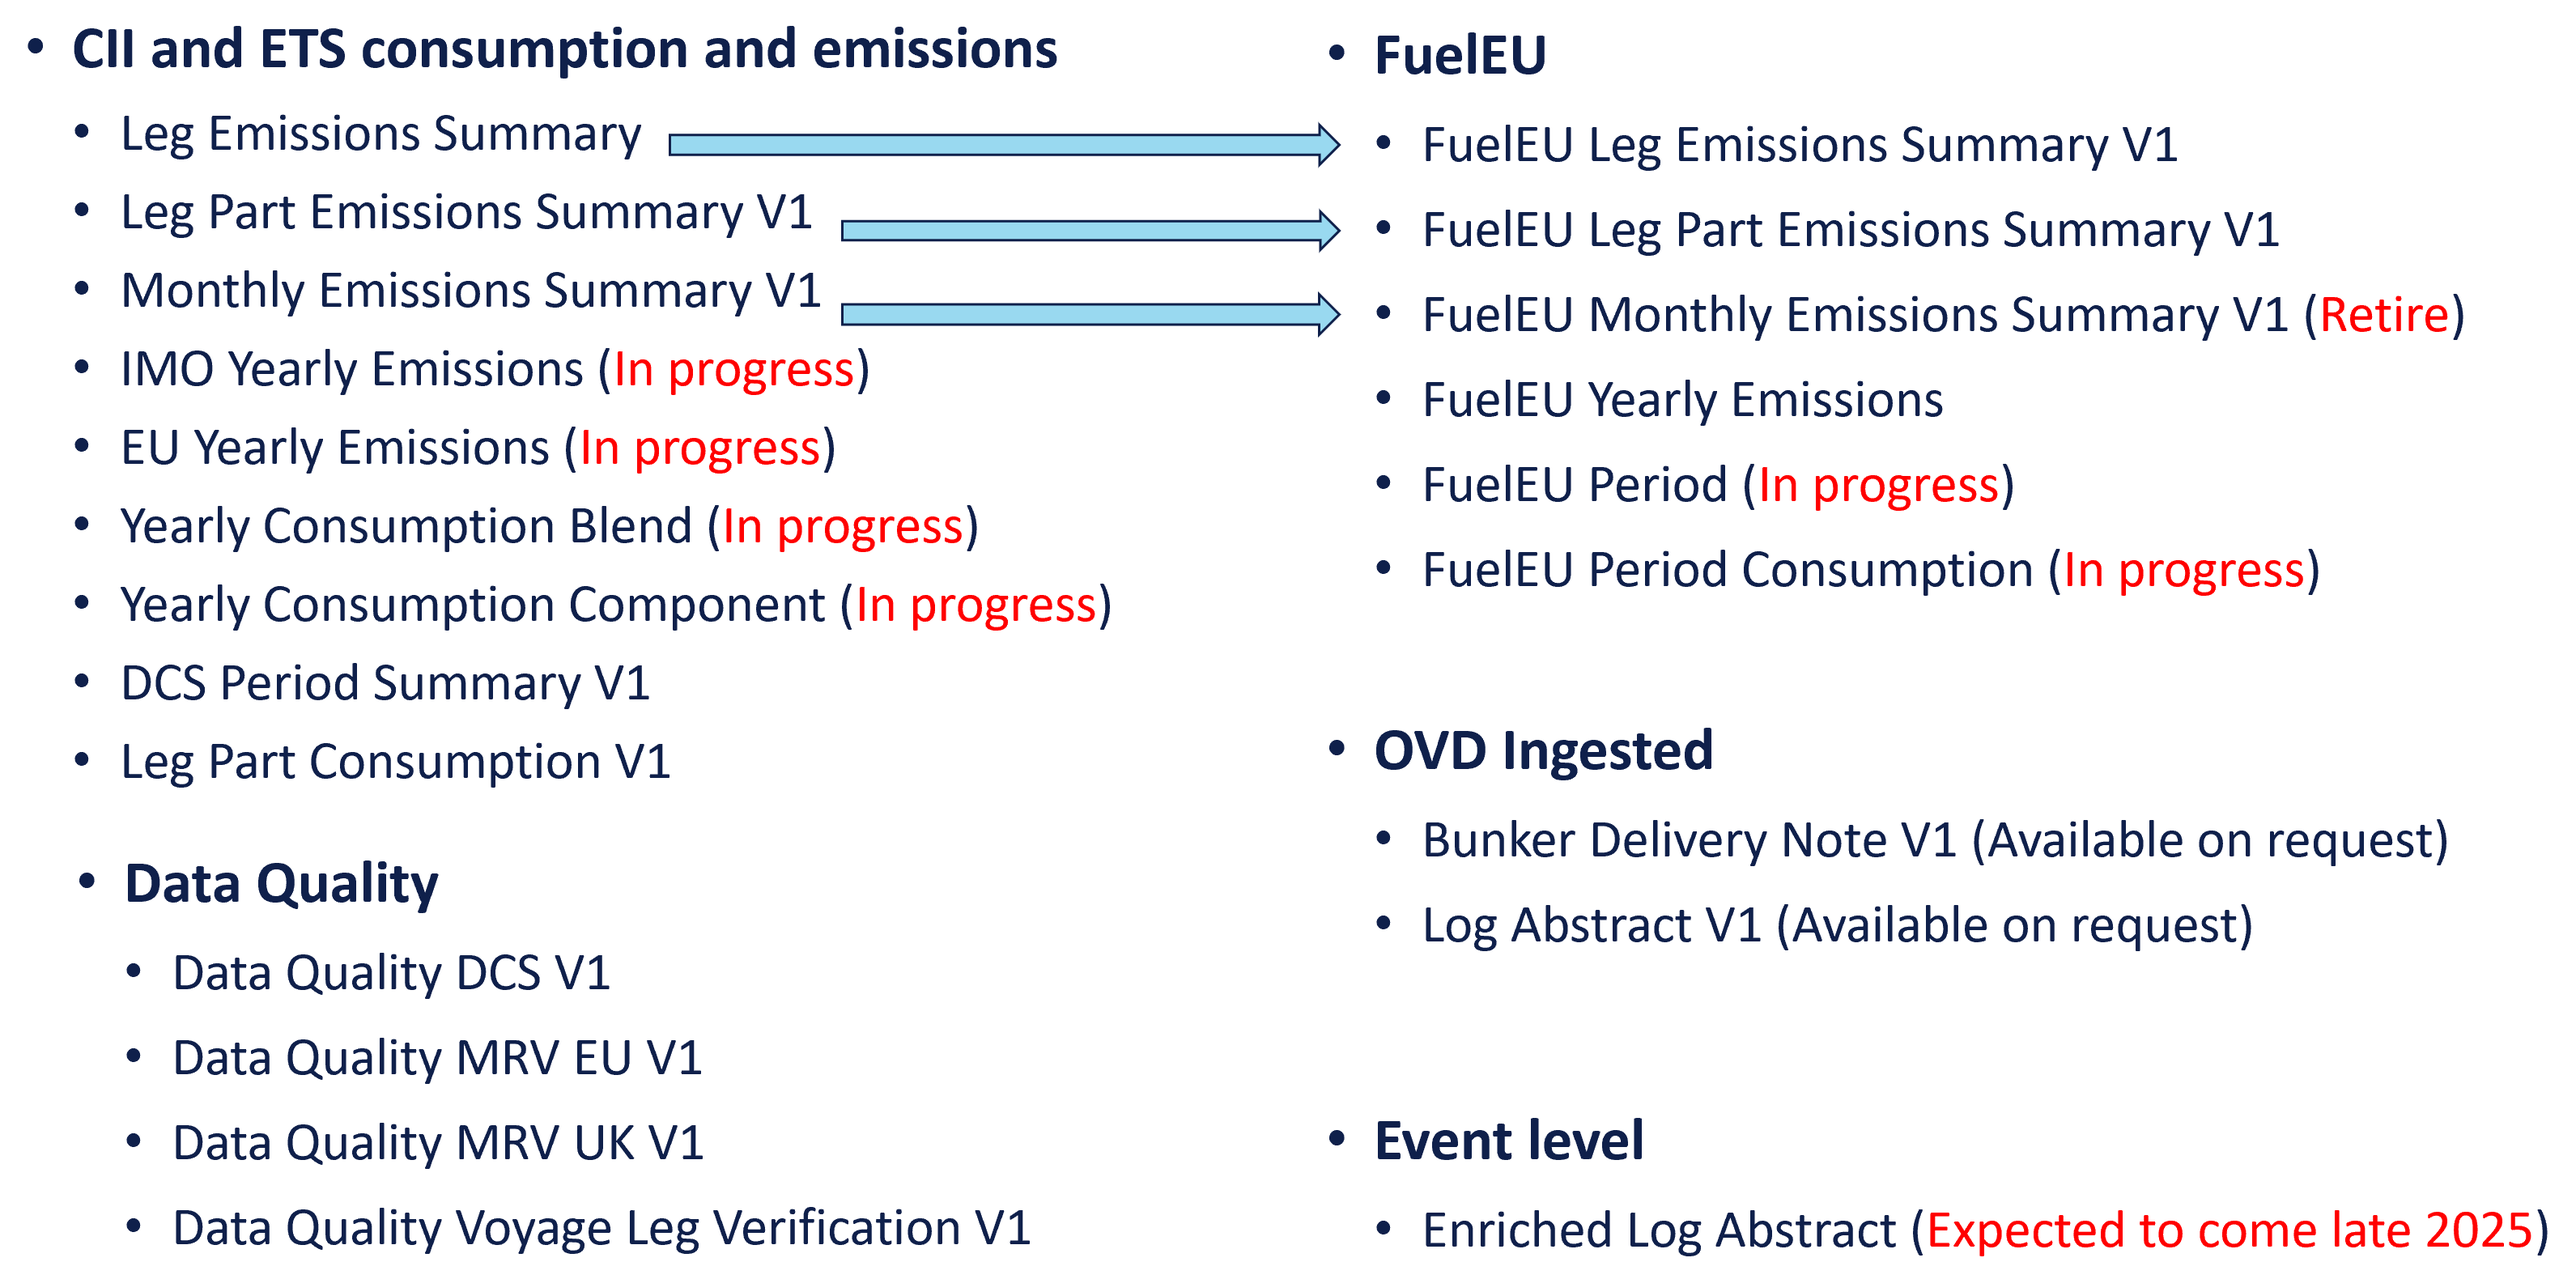
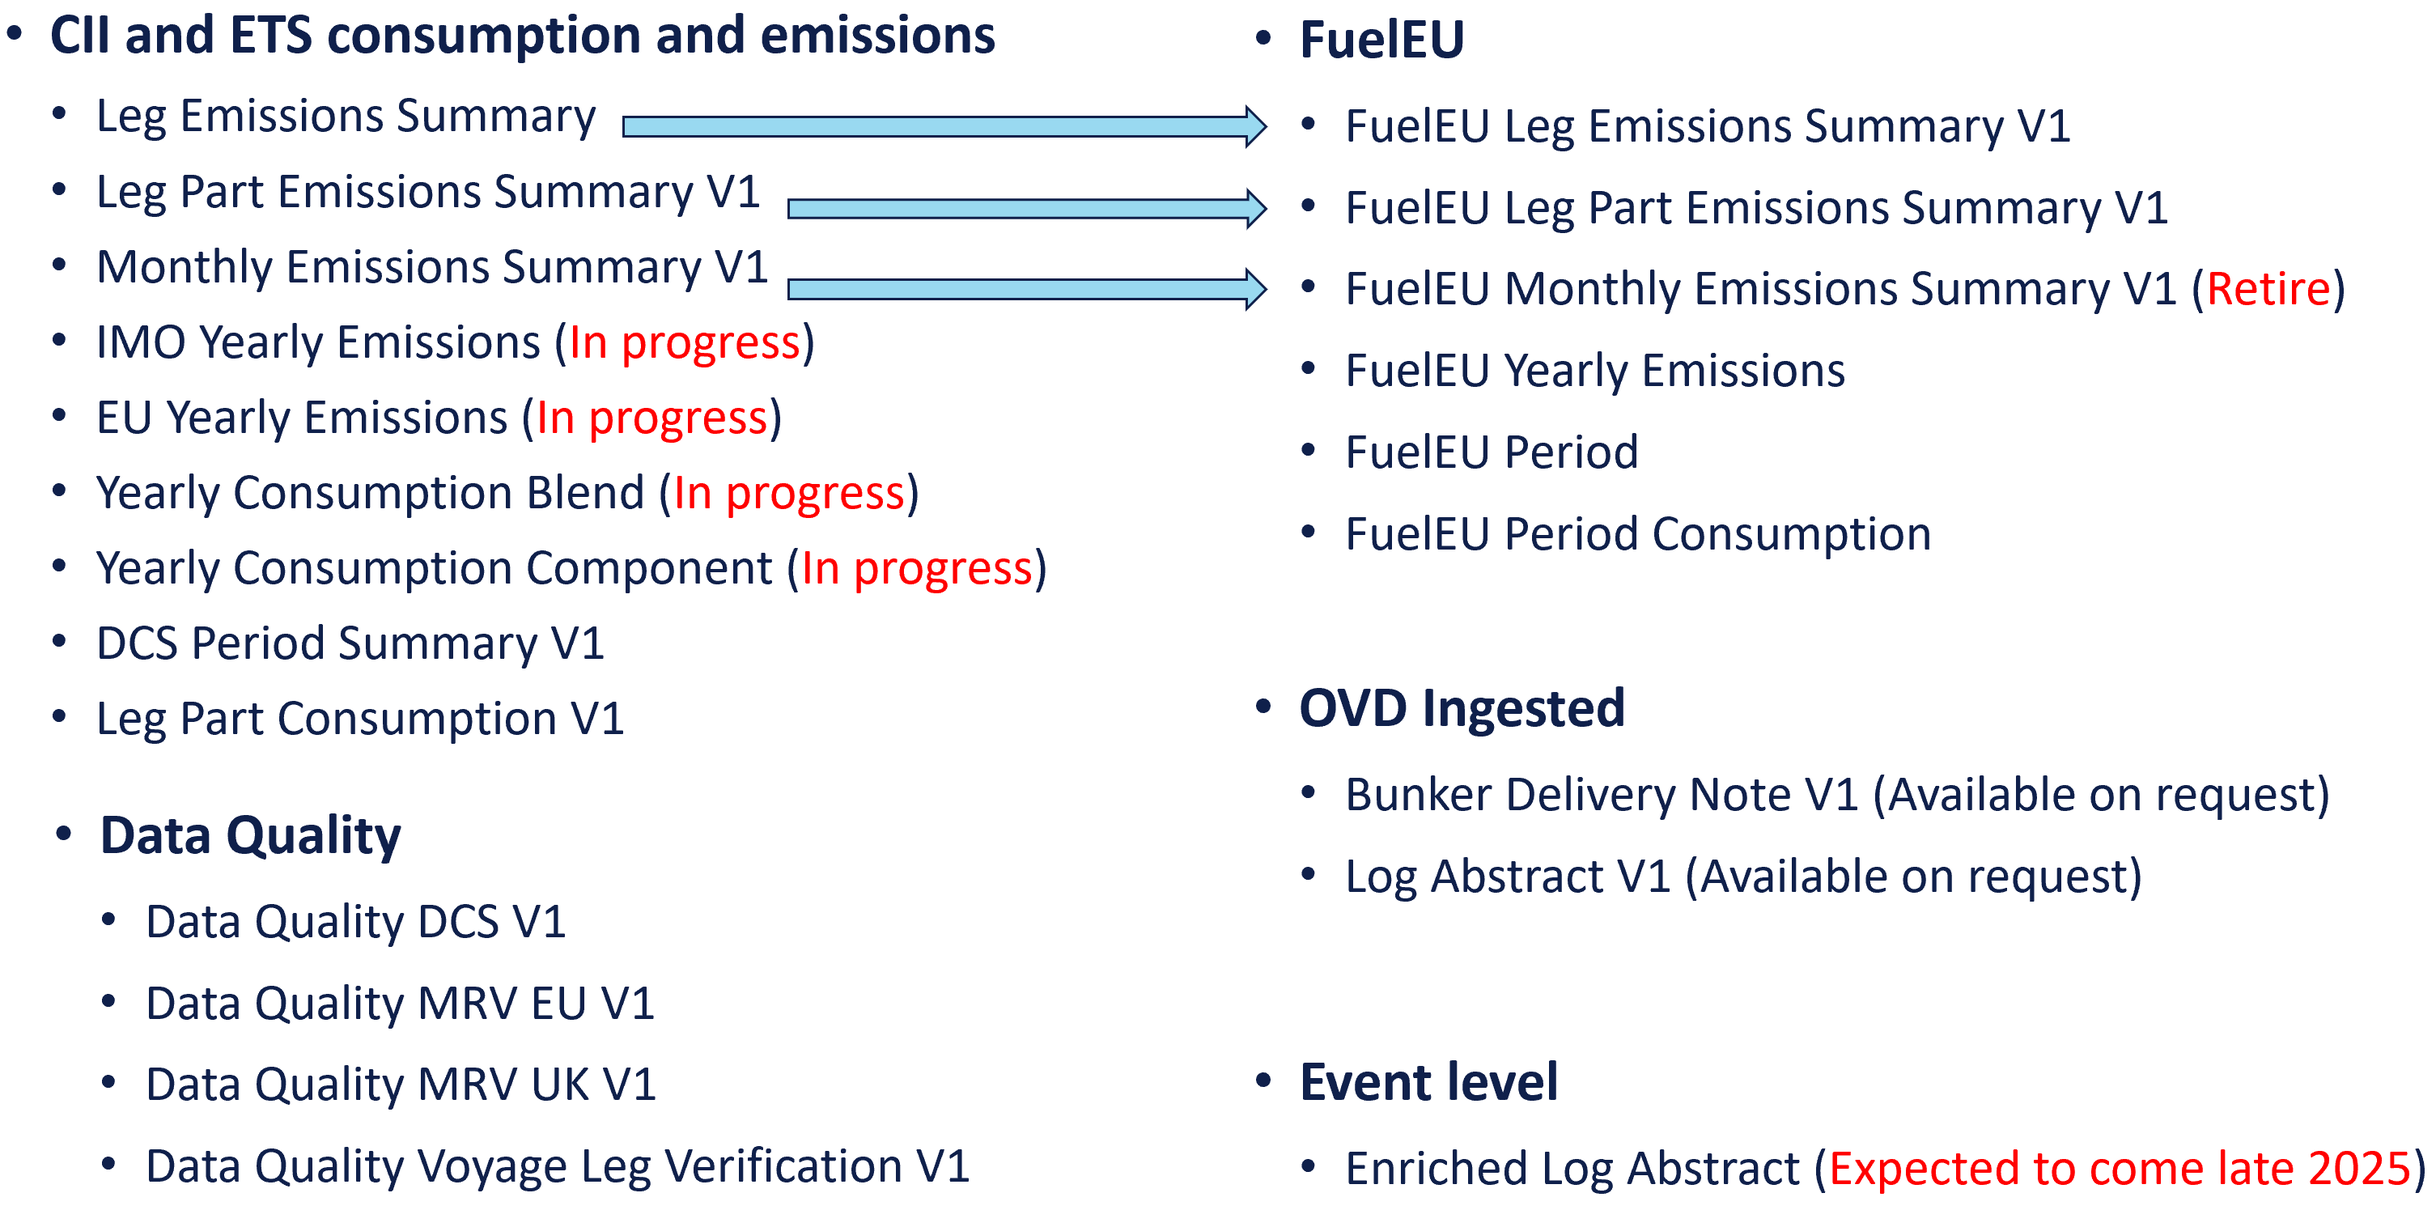
Update OVD Egest data introduction
Update OVD Egest data introduction

diff --git a/sections/apisfrommarketplace/ovdegest.md b/sections/apisfrommarketplace/ovdegest.md
@@ -34,7 +34,7 @@ Additionally, ingested OVD data is available upon request through the Data Workb
 
 The overview below illustrates the available, upcoming, and planned datasets, along with their interrelationships.
 <figure>
-	<img src="assets/relations2.png"/>
+	<img src="assets/relations2.jpg"/>
 </figure>
 
 If the image is too small, open it with the button below.
@@ -55,6 +55,10 @@ If the image is too small, open it with the button below.
 - **FuelEU Leg Part Emissions** contains emissions data aggregated to the vessel level for each year. Each row represents one vessel and its yearly data. For the current year, the data reflects year-to-date values. It also contains additional FuelEU columns in addition to this dataset. This is a temporary schema and will be replaced by new FuelEU schemas.
 
 - **Leg Part Consumption** contains fuel consumption and emissions data aggregated to vessel, voyage leg part, fuel type, and consumer type. Each row represents the total consumption of a specific fuel type for a single vessel and consumer type (e.g., main engine, auxiliary engine) within a voyage leg part.
+
+- **FuelEU Period** contains FuelEU data aggregated to the vessel and different FuelEU reporting periods (Annual, Monthly, Year to Month, Voyage, Commercial Period, etc.). Each row shows the FuelEU intensity, energy and related calculation results within a specific FuelEU period for a single vessel. Important Note: To ensure accurate analysis, only one FuelEU reporting period should be selected at a time, as aggregations are not additive across different period types.
+
+- **FuelEU Period Consumption** contains fuel consumption and emissions data aggregated to the vessel, different FuelEU reporting periods and different fuel types/GHGIE. Each row represents a consumption with its specific GHGIE and emissions data used by a single vessel during a specific FuelEU period. Important Note: To ensure accurate analysis, only one FuelEU reporting period should be selected at a time, as aggregations are not additive across different period types.
 
 - **Monthly Emissions** contains emissions data aggregated to the vessel level and month. Each row represents the total emissions for a single vessel in a specific month.
 
